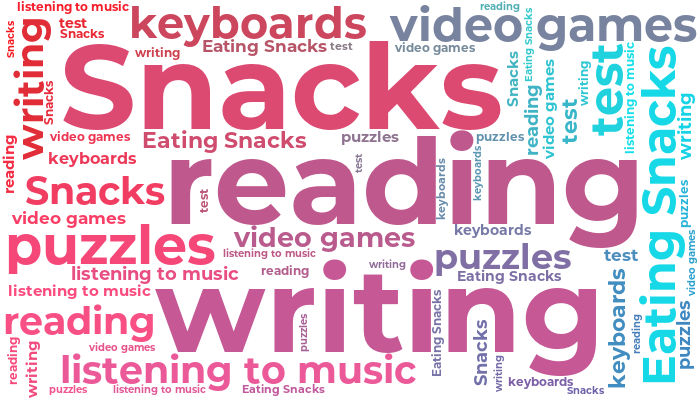
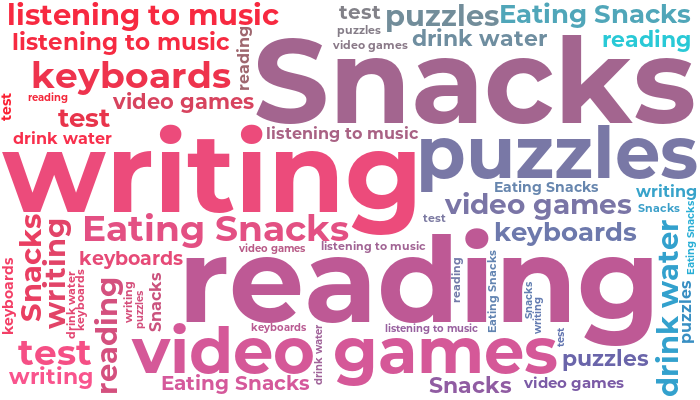
@JessicaLim8 added 'drink water' to the Word Cloud

diff --git a/README.md b/README.md
@@ -11,7 +11,7 @@ Welcome to my profile! I'm a student, aspiring writer, part-time coder and full-
 
 ## Join my community word cloud 🔡 💭
 
-![](https://img.shields.io/badge/Words%20Added-6-brightgreen?labelColor=7D898B)
+![](https://img.shields.io/badge/Words%20Added-7-brightgreen?labelColor=7D898B)
 ![](https://img.shields.io/badge/Word%20Clouds%20Created-1-blue?labelColor=7D898B)
 ![](https://img.shields.io/badge/Total%20Contributors-1-orange?labelColor=7D898B)
 
@@ -28,7 +28,7 @@ The *Word Cloud* will automatically update when you add your own word 😊 The p
 
   &nbsp;
 
-  ![Monthly Words Badge](https://img.shields.io/badge/Words%20in%20this%20Cloud-6-darkblue?labelColor=7D898B)
+  ![Monthly Words Badge](https://img.shields.io/badge/Words%20in%20this%20Cloud-7-darkblue?labelColor=7D898B)
   ![Monthly Contributors Badge](https://img.shields.io/badge/Contributors%20this%20Cloud-1-orange?labelColor=7D898B)
   [![Github Badge](https://img.shields.io/badge/-@username-24292e?style=flat&logo=Github&logoColor=white&link=https://github.com/username)](https://github.com/username)
   [![Github Badge](https://img.shields.io/badge/-@username-24292e?style=flat&logo=Github&logoColor=white&link=https://github.com/username)](https://github.com/username)
